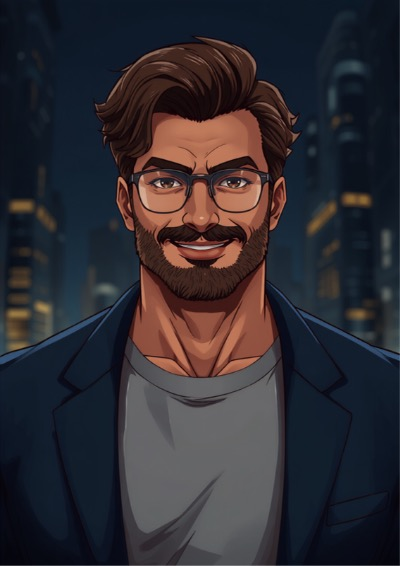
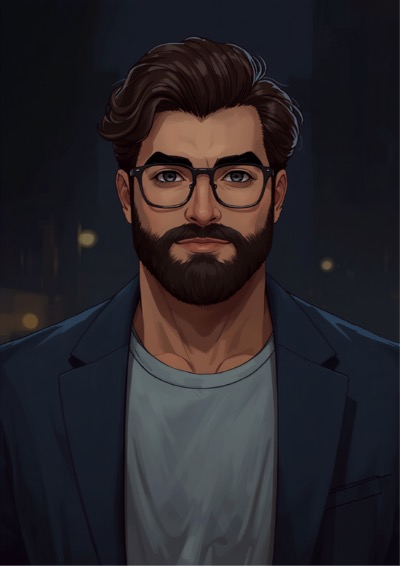
Mr.N画像をmm2(ハウススタイル準拠)に差し替え+v20260724／本文グローバル担当に変更

diff --git a/hp/index.html b/hp/index.html
@@ -724,11 +724,11 @@ body{padding-bottom:150px}
         </div>
       </div>
       <div class="res human">
-        <div class="visual"><img src="../assets/residents/mrn.jpg?v=20260723" alt="Mr.N — 億街のパワー担当" loading="lazy" decoding="async"></div>
+        <div class="visual"><img src="../assets/residents/mrn.jpg?v=20260724" alt="Mr.N — 億街のグローバル担当" loading="lazy" decoding="async"></div>
         <div class="body">
           <h3>Mr.N<span class="room">元104号室</span></h3>
           <div class="yomi">MR.N</div>
-          <p>パワー担当。７ヶ国語を操る。</p>
+          <p>グローバル担当。７ヶ国語を操る。</p>
           <div class="sns"><a href="https://x.com/okugai_mrn" target="_blank" rel="noopener" aria-label="Mr.N の X"><svg class="icf"><use href="#i-xlogo"/></svg></a></div>
         </div>
       </div>

diff --git a/lp/index.html b/lp/index.html
@@ -859,7 +859,7 @@ body{padding-bottom:150px}
         <h4>T.K.</h4>
       </div>
       <div class="rmini human">
-        <div class="sigil"><img src="../assets/residents/mrn.jpg?v=20260723" alt="Mr.N" loading="lazy"></div>
+        <div class="sigil"><img src="../assets/residents/mrn.jpg?v=20260724" alt="Mr.N" loading="lazy"></div>
         <h4>Mr.N</h4>
       </div>
       <div class="rmini">